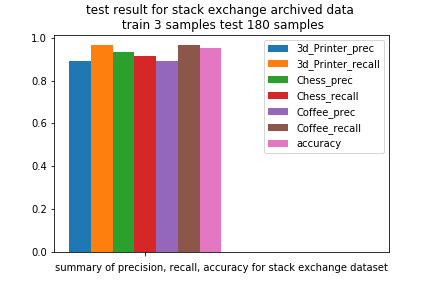
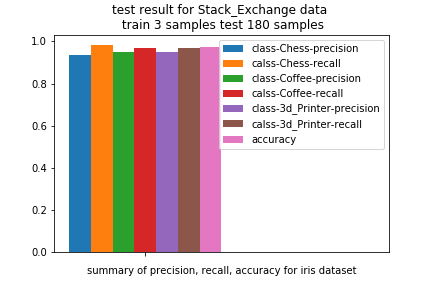
saving progress

diff --git a/index.html b/index.html
@@ -13177,6 +13177,17 @@ background-color:#F8F9F9;
 <div class="cell border-box-sizing text_cell rendered"><div class="prompt input_prompt">
 </div><div class="inner_cell">
 <div class="text_cell_render border-box-sizing rendered_html">
+<p><img src="docs/Algorihms/kaggle_hp.jpg" align="center"
+     title="Open Image in new tab for good resolution" width="20%" >
+<img src="docs/Algorihms/sakura_jp.jpg" align="center"
+     title="Open Image in new tab for good resolution" width="20%" ></p>
+
+</div>
+</div>
+</div>
+<div class="cell border-box-sizing text_cell rendered"><div class="prompt input_prompt">
+</div><div class="inner_cell">
+<div class="text_cell_render border-box-sizing rendered_html">
 <div>
 <br><h1  style="color:grey;" >
 <a id="house_price_link"></a> 
@@ -13444,27 +13455,27 @@ href ='#table_of_content_link'>Go Back to Table of Content</a></p>
 
 
 
-<h3> ID3 Flow Chart of Implementation (Open Image in new tab for full resolution) </h3><p><img src="docs/Algorihms/ID3.jpg" align="center"
+<h3> ID3 Flow Chart of Implementation (Open Image in new tab for full resolution) </h3><p><img src="docs/Algorihms/ID3_Simple.jpg" align="center"
      title="(Open Image in new tab for full resolution)
 " width="480" height="480"></p>
 <h3> Result of ID3 implementation for iris data - a.Precision Recall and Accuracy and b.True Label vs Prediction - </h3><p><img src="docs/Results/iris_ID3.png" align="left"
      title="(Open Image in new tab for good resolution)
-" width="320" height="240"></p>
+" width="30%" ></p>
 <p><img src="docs/Results/irispred.jpg" align="center"
      title="(Open Image in new tab for good resolution)
-" width="480" height="240"></p>
+" width="60%" ></p>
 <h3> Result of ID3 implementation for Titanic data - a.Precision Recall and Accuracy and b.True Label vs Prediction </h3><p><img src="docs/Results/titanic_ID3.png" align="left"
      title="(Open Image in new tab for full resolution)
-" width="320" height="240"></p>
+" width="30%" ></p>
 <p><img src="docs/Results/titanicpred.jpg" align="center"
      title="(Open Image in new tab for full resolution)
-" width="480" height="240"></p>
+" width="60%" ></p>
 <p><a style="color:navyblue;font-size:15px;" 
 href ='#table_of_content_link'>Go Back to Table of Content</a></p>
 <div>
 <br><h1  style="color:grey;" >
 <a id="naive_bayes_link"></a> 
-   Naive Bayes :: Implementation for text classification</h1></br>
+   Naive Bayes and KNN :: Implementation for text classification</h1></br>
 <a style="color:navyblue;font-size:25px;" href= https://github.com/irfanhasib0/Machine-Learning/blob/master/Machine_Learning_Algo_From_Scratch/Naive_Bayes_Stack_Exchange.ipynb> Naive Bayes Implementation from scratch - Notebook (Project Presentation and Code Link) </a>
 </div><h3> 1. Overview </h3><div id=div_style>
 <ul id=ul_style>
@@ -13475,22 +13486,32 @@ href ='#table_of_content_link'>Go Back to Table of Content</a></p>
                   <li>Calculating Attribute Probabilities for each class  </li>
                   <li>Applying Bayes Theorem for getting class probality </li>
                   </ul>
+<li><b><I> Steps      :</li></b></I>
+                  <ul>
+                  <li>Text Preprocessing was done with raw python without nltk. </li>
+                  <li>Calculating Attribute Probability vector for each sample  </li>
+                  <li>Calculating Cosine/eucleidian/  </li>
+                  <li>Applying Bayes Theorem for getting class probality </li>
+                  </ul>
 <li><b><I> Tuning     :</li></b></I> The model was Tuned for best alpha values.
 <li><b><I> Prediction :</li></b></I> Accuracy,Precision,Recall Reporting.
 </ul>
-</div><h3> Naive Bayes algorithm applied on the procesed text.</h3><p><img src="docs/Algorihms/Naive_Bayes.jpg" align="center"
-     title="Open Image in new tab for good resolution" width="640" height="480"></p>
-<ul>
-<li>Result of Naive Bayes implementation for Stack Exchange data - a.Precision Recall and Accuracy and b.True Label vs Prediction</li>
-</ul>
+</div><h3> Naive Bayes and K Nearest Neighbour algorithm applied on the procesed text.</h3><p><img src="docs/Algorihms/Naive_Bayes.jpg" align="left"
+     title="Open Image in new tab for good resolution" width="50%" >
+<img src="docs/Algorihms/KNN_Algorithm.jpg" align="left"
+     title="Open Image in new tab for good resolution" width="50%" ></p>
+<p><h3> Result of Naive Bayes implementation for Stack Exchange data - 
+    a.Precision Recall and Accuracy<br>
+    b.True Label vs Prediction <h3></p>
 <p><img src="docs/Results/stack_exchange_NB.png" align="left"
-     title="(Open Image in new tab for full resolution)
-" width="320" height="240"></p>
-<p><img src="docs/Results/stack_exchange_NB_pred.png" align="center"
-     title="(Open Image in new tab for full resolution)
-" width="640" height="240"></p>
-<p><a style="color:navyblue;font-size:15px;" 
-href ='#table_of_content_link'>Go Back to Table of Content</a></p>
+     title="(Open Image in new tab for full resolution)" width="30%" ></p>
+<p><img src="docs/Results/stack_exchange_NB_pred.jpg" align="left"
+     title="(Open Image in new tab for full resolution)" width="60%" ></p>
+<p><img src="docs/Results/stack_exchange_KNN.png" align="left"
+     title="(Open Image in new tab for full resolution)" width="30%" ></p>
+<p><img src="docs/Results/stack_exchange_KNN_pred.jpg" align="left"
+     title="(Open Image in new tab for full resolution)" width="60%" ></p>
+<p><a style="color:navyblue;font-size:15px;" href ='#table_of_content_link'>Go Back to Table of Content</a></p>
 
 </div>
 </div>
@@ -13640,9 +13661,9 @@ href ='#table_of_content_link'>Go Back to Table of Content</a></p>
     </ul>
 </ul>
 </div><h3> 2. Detailed Flow Chart for DQN and DDPG : (Please open in New tab for proper resolution) </h3><p><img src="docs/Algorihms/DQN_Brief.jpg" align="left"
-     title="Open Image in new tab for good resolution" width="480" height="240"></p>
+     title="Open Image in new tab for good resolution" width="50%" ></p>
 <p><img src="docs/Algorihms/DDPG_Brief.jpg" align="right"
-     title="Open Image in new tab for good resolution" width="500" height="240">&lt;/br&gt;</p>
+     title="Open Image in new tab for good resolution" width="50%" >&lt;/br&gt;</p>
 <h3> 3. Results </h3><ul>
 <li>a. Results DQN on Mountain Car (Left):</li>
 <li>b. Results DDPG on Pendulum (Right):</li>
@@ -13650,13 +13671,13 @@ href ='#table_of_content_link'>Go Back to Table of Content</a></p>
 <li>d. Test DDPG on Pendulum (Right):</li>
 </ul>
 <p><img src="docs/Results/DQN_MC.png" align="left"
-     title="(Open Image in new tab for full resolution)" width="240" height="240"/>
+     title="(Open Image in new tab for full resolution)" width="24%" />
 <img src="docs/Results/DDPG_PEND.jpg" align="left"
-     title="(Open Image in new tab for full resolution)" width="240" height="240"/></p>
+     title="(Open Image in new tab for full resolution)" width="24%" /></p>
 <p><img src="docs/Results/mc.gif" align="center"
-     title="(Open Image in new tab for full resolution)" width="240" height="240"/>
+     title="(Open Image in new tab for full resolution)" width="24%" />
 <img src="docs/Results/pend.gif" align="center"
-     title="(Open Image in new tab for full resolution)" width="240" height="240"/></p>
+     title="(Open Image in new tab for full resolution)" width="24%" /></p>
 <p><a style="color:navyblue;font-size:15px;" 
 href ='#table_of_content_link'>Go Back to Table of Content</a></p>
 

diff --git a/README.md b/README.md
@@ -135,6 +135,11 @@ background-color:#F8F9F9;
 }
 </style>
 
+<img src="docs/Algorihms/kaggle_hp.jpg" align="center"
+     title="Open Image in new tab for good resolution" width="20%" >
+<img src="docs/Algorihms/sakura_jp.jpg" align="center"
+     title="Open Image in new tab for good resolution" width="20%" >
+
 
 <div>
 <br><h1  style="color:grey;" >
@@ -436,7 +441,7 @@ href ='#table_of_content_link'>Go Back to Table of Content</a>
 
 <h3> ID3 Flow Chart of Implementation (Open Image in new tab for full resolution) </h3>
 
-<img src="docs/Algorihms/ID3.jpg" align="center"
+<img src="docs/Algorihms/ID3_Simple.jpg" align="center"
      title="(Open Image in new tab for full resolution)
 " width="480" height="480">
 
@@ -445,11 +450,11 @@ href ='#table_of_content_link'>Go Back to Table of Content</a>
 
 <img src="docs/Results/iris_ID3.png" align="left"
      title="(Open Image in new tab for good resolution)
-" width="320" height="240">
+" width="30%" >
 
 <img src="docs/Results/irispred.jpg" align="center"
      title="(Open Image in new tab for good resolution)
-" width="480" height="240">
+" width="60%" >
 
 
 
@@ -457,11 +462,11 @@ href ='#table_of_content_link'>Go Back to Table of Content</a>
 
 <img src="docs/Results/titanic_ID3.png" align="left"
      title="(Open Image in new tab for full resolution)
-" width="320" height="240">
+" width="30%" >
 
 <img src="docs/Results/titanicpred.jpg" align="center"
      title="(Open Image in new tab for full resolution)
-" width="480" height="240">
+" width="60%" >
 
 <a style="color:navyblue;font-size:15px;" 
 href ='#table_of_content_link'>Go Back to Table of Content</a>
@@ -469,7 +474,7 @@ href ='#table_of_content_link'>Go Back to Table of Content</a>
 <div>
 <br><h1  style="color:grey;" >
 <a id="naive_bayes_link"></a> 
-   Naive Bayes :: Implementation for text classification</h1></br>
+   Naive Bayes and KNN :: Implementation for text classification</h1></br>
 <a style="color:navyblue;font-size:25px;" href= https://github.com/irfanhasib0/Machine-Learning/blob/master/Machine_Learning_Algo_From_Scratch/Naive_Bayes_Stack_Exchange.ipynb> Naive Bayes Implementation from scratch - Notebook (Project Presentation and Code Link) </a>
 </div>
 
@@ -485,6 +490,13 @@ href ='#table_of_content_link'>Go Back to Table of Content</a>
                   <li>Calculating Attribute Probabilities for each class  </li>
                   <li>Applying Bayes Theorem for getting class probality </li>
                   </ul>
+<li><b><I> Steps      :</li></b></I>
+                  <ul>
+                  <li>Text Preprocessing was done with raw python without nltk. </li>
+                  <li>Calculating Attribute Probability vector for each sample  </li>
+                  <li>Calculating Cosine/eucleidian/  </li>
+                  <li>Applying Bayes Theorem for getting class probality </li>
+                  </ul>
 <li><b><I> Tuning     :</li></b></I> The model was Tuned for best alpha values.
 <li><b><I> Prediction :</li></b></I> Accuracy,Precision,Recall Reporting.
 </ul>
@@ -492,23 +504,33 @@ href ='#table_of_content_link'>Go Back to Table of Content</a>
 
 
 
-<h3> Naive Bayes algorithm applied on the procesed text.</h3>
+<h3> Naive Bayes and K Nearest Neighbour algorithm applied on the procesed text.</h3>
 
-<img src="docs/Algorihms/Naive_Bayes.jpg" align="center"
-     title="Open Image in new tab for good resolution" width="640" height="480">
+<img src="docs/Algorihms/Naive_Bayes.jpg" align="left"
+     title="Open Image in new tab for good resolution" width="50%" >
+<img src="docs/Algorihms/KNN_Algorithm.jpg" align="left"
+     title="Open Image in new tab for good resolution" width="50%" >
 
-* Result of Naive Bayes implementation for Stack Exchange data - a.Precision Recall and Accuracy and b.True Label vs Prediction
+
+<h3> Result of Naive Bayes implementation for Stack Exchange data - 
+    a.Precision Recall and Accuracy  
+    b.True Label vs Prediction <h3>
+
 
 <img src="docs/Results/stack_exchange_NB.png" align="left"
-     title="(Open Image in new tab for full resolution)
-" width="320" height="240">
+     title="(Open Image in new tab for full resolution)" width="30%" >
 
-<img src="docs/Results/stack_exchange_NB_pred.png" align="center"
-     title="(Open Image in new tab for full resolution)
-" width="640" height="240">
+<img src="docs/Results/stack_exchange_NB_pred.jpg" align="left"
+     title="(Open Image in new tab for full resolution)" width="60%" >
 
-<a style="color:navyblue;font-size:15px;" 
-href ='#table_of_content_link'>Go Back to Table of Content</a>
+<img src="docs/Results/stack_exchange_KNN.png" align="left"
+     title="(Open Image in new tab for full resolution)" width="30%" >
+
+<img src="docs/Results/stack_exchange_KNN_pred.jpg" align="left"
+     title="(Open Image in new tab for full resolution)" width="60%" >
+
+
+<a style="color:navyblue;font-size:15px;" href ='#table_of_content_link'>Go Back to Table of Content</a>
 
 <div>
 <br><h1  style="color:grey;" >
@@ -665,11 +687,11 @@ href ='#table_of_content_link'>Go Back to Table of Content</a>
 <h3> 2. Detailed Flow Chart for DQN and DDPG : (Please open in New tab for proper resolution) </h3>
 
 <img src="docs/Algorihms/DQN_Brief.jpg" align="left"
-     title="Open Image in new tab for good resolution" width="480" height="240">
+     title="Open Image in new tab for good resolution" width="50%" >
      
 
 <img src="docs/Algorihms/DDPG_Brief.jpg" align="right"
-     title="Open Image in new tab for good resolution" width="500" height="240"></br>
+     title="Open Image in new tab for good resolution" width="50%" ></br>
 
 <h3> 3. Results </h3>
 
@@ -679,14 +701,14 @@ href ='#table_of_content_link'>Go Back to Table of Content</a>
 * d. Test DDPG on Pendulum (Right):
 
 <img src="docs/Results/DQN_MC.png" align="left"
-     title="(Open Image in new tab for full resolution)" width="240" height="240"/>
+     title="(Open Image in new tab for full resolution)" width="24%" />
 <img src="docs/Results/DDPG_PEND.jpg" align="left"
-     title="(Open Image in new tab for full resolution)" width="240" height="240"/>
+     title="(Open Image in new tab for full resolution)" width="24%" />
      
 <img src="docs/Results/mc.gif" align="center"
-     title="(Open Image in new tab for full resolution)" width="240" height="240"/>
+     title="(Open Image in new tab for full resolution)" width="24%" />
 <img src="docs/Results/pend.gif" align="center"
-     title="(Open Image in new tab for full resolution)" width="240" height="240"/>
+     title="(Open Image in new tab for full resolution)" width="24%" />
      
 <a style="color:navyblue;font-size:15px;" 
 href ='#table_of_content_link'>Go Back to Table of Content</a>
